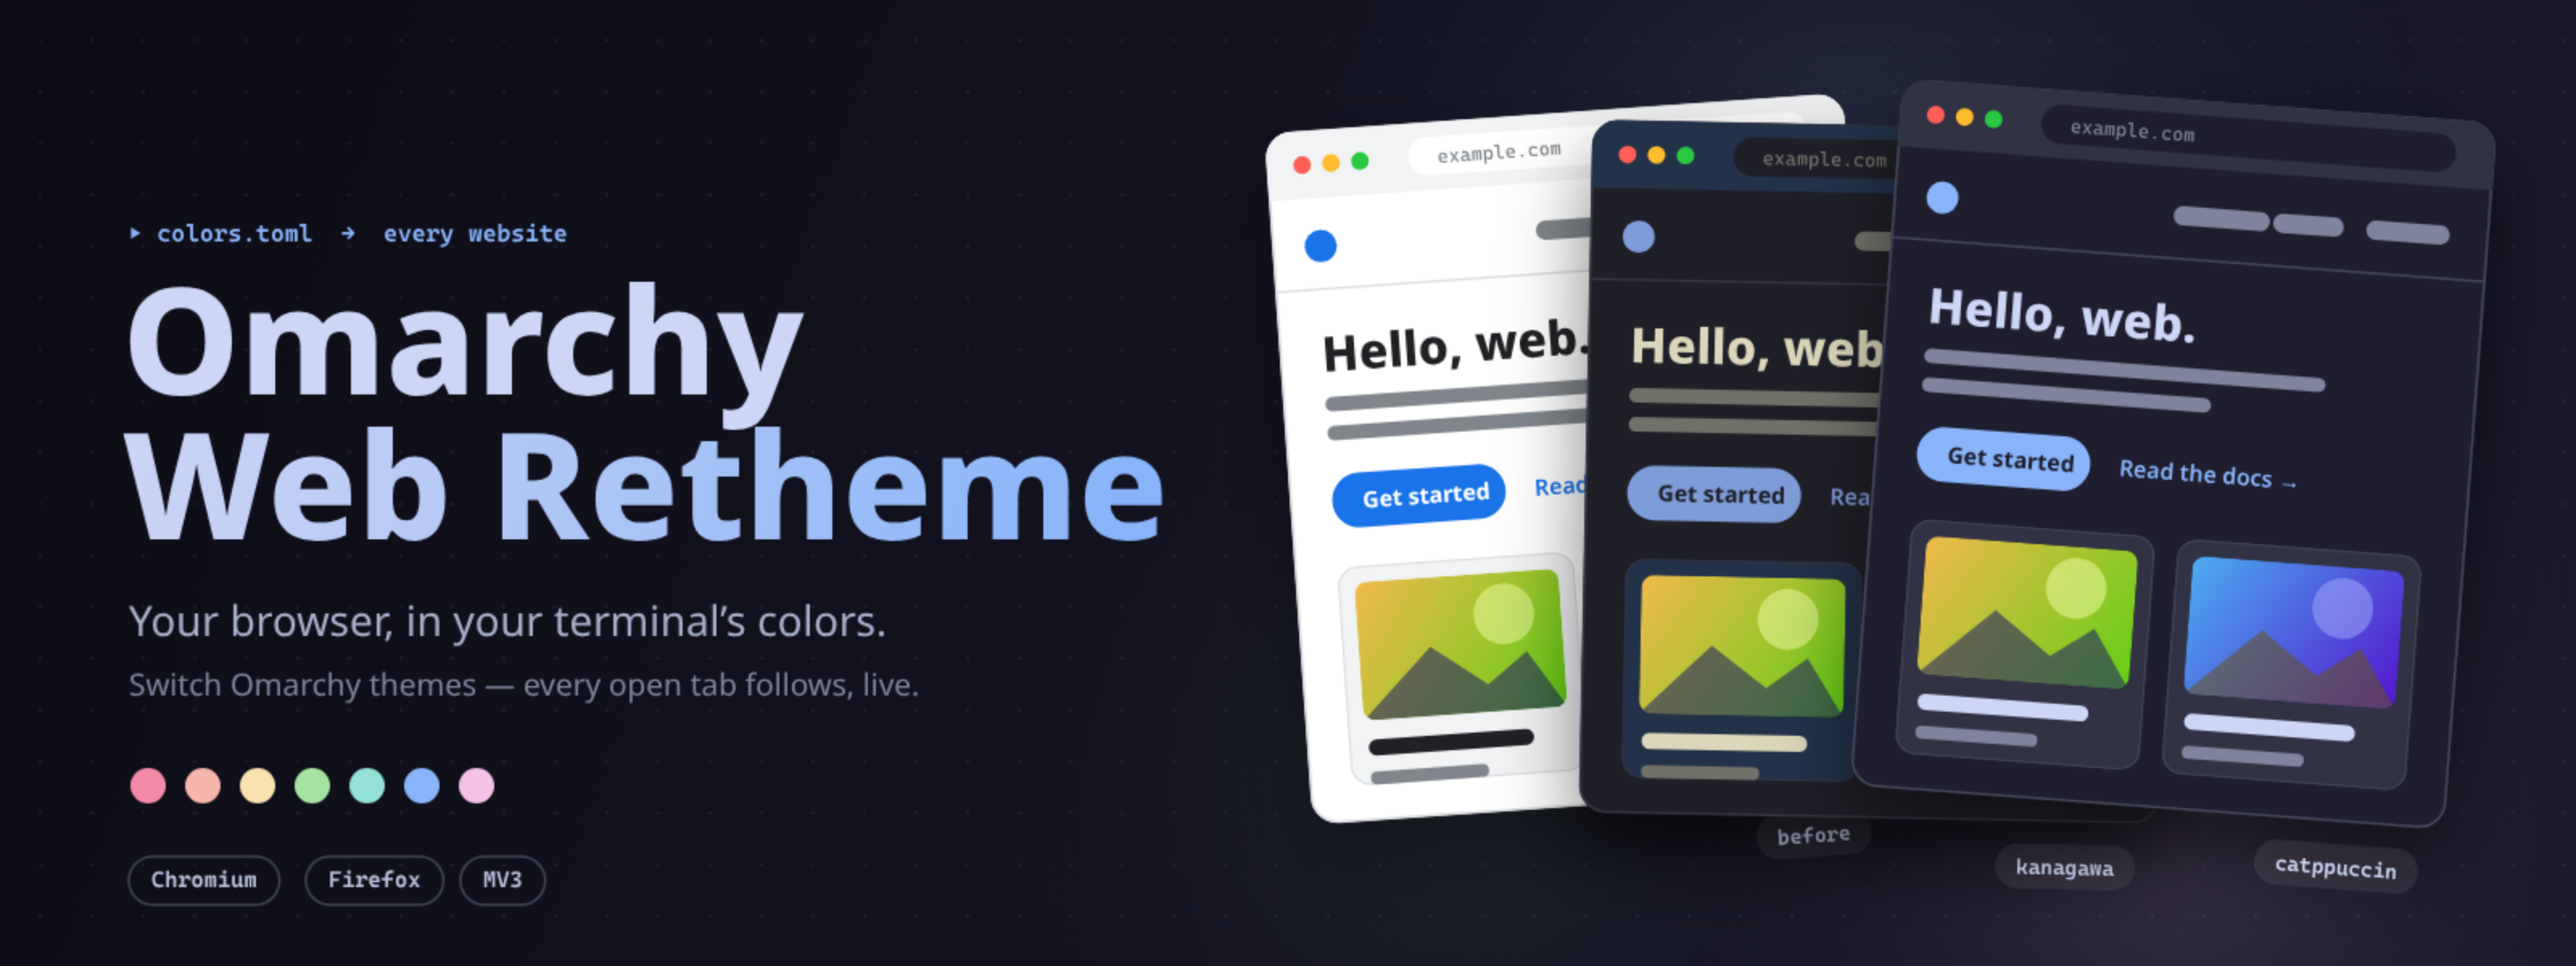
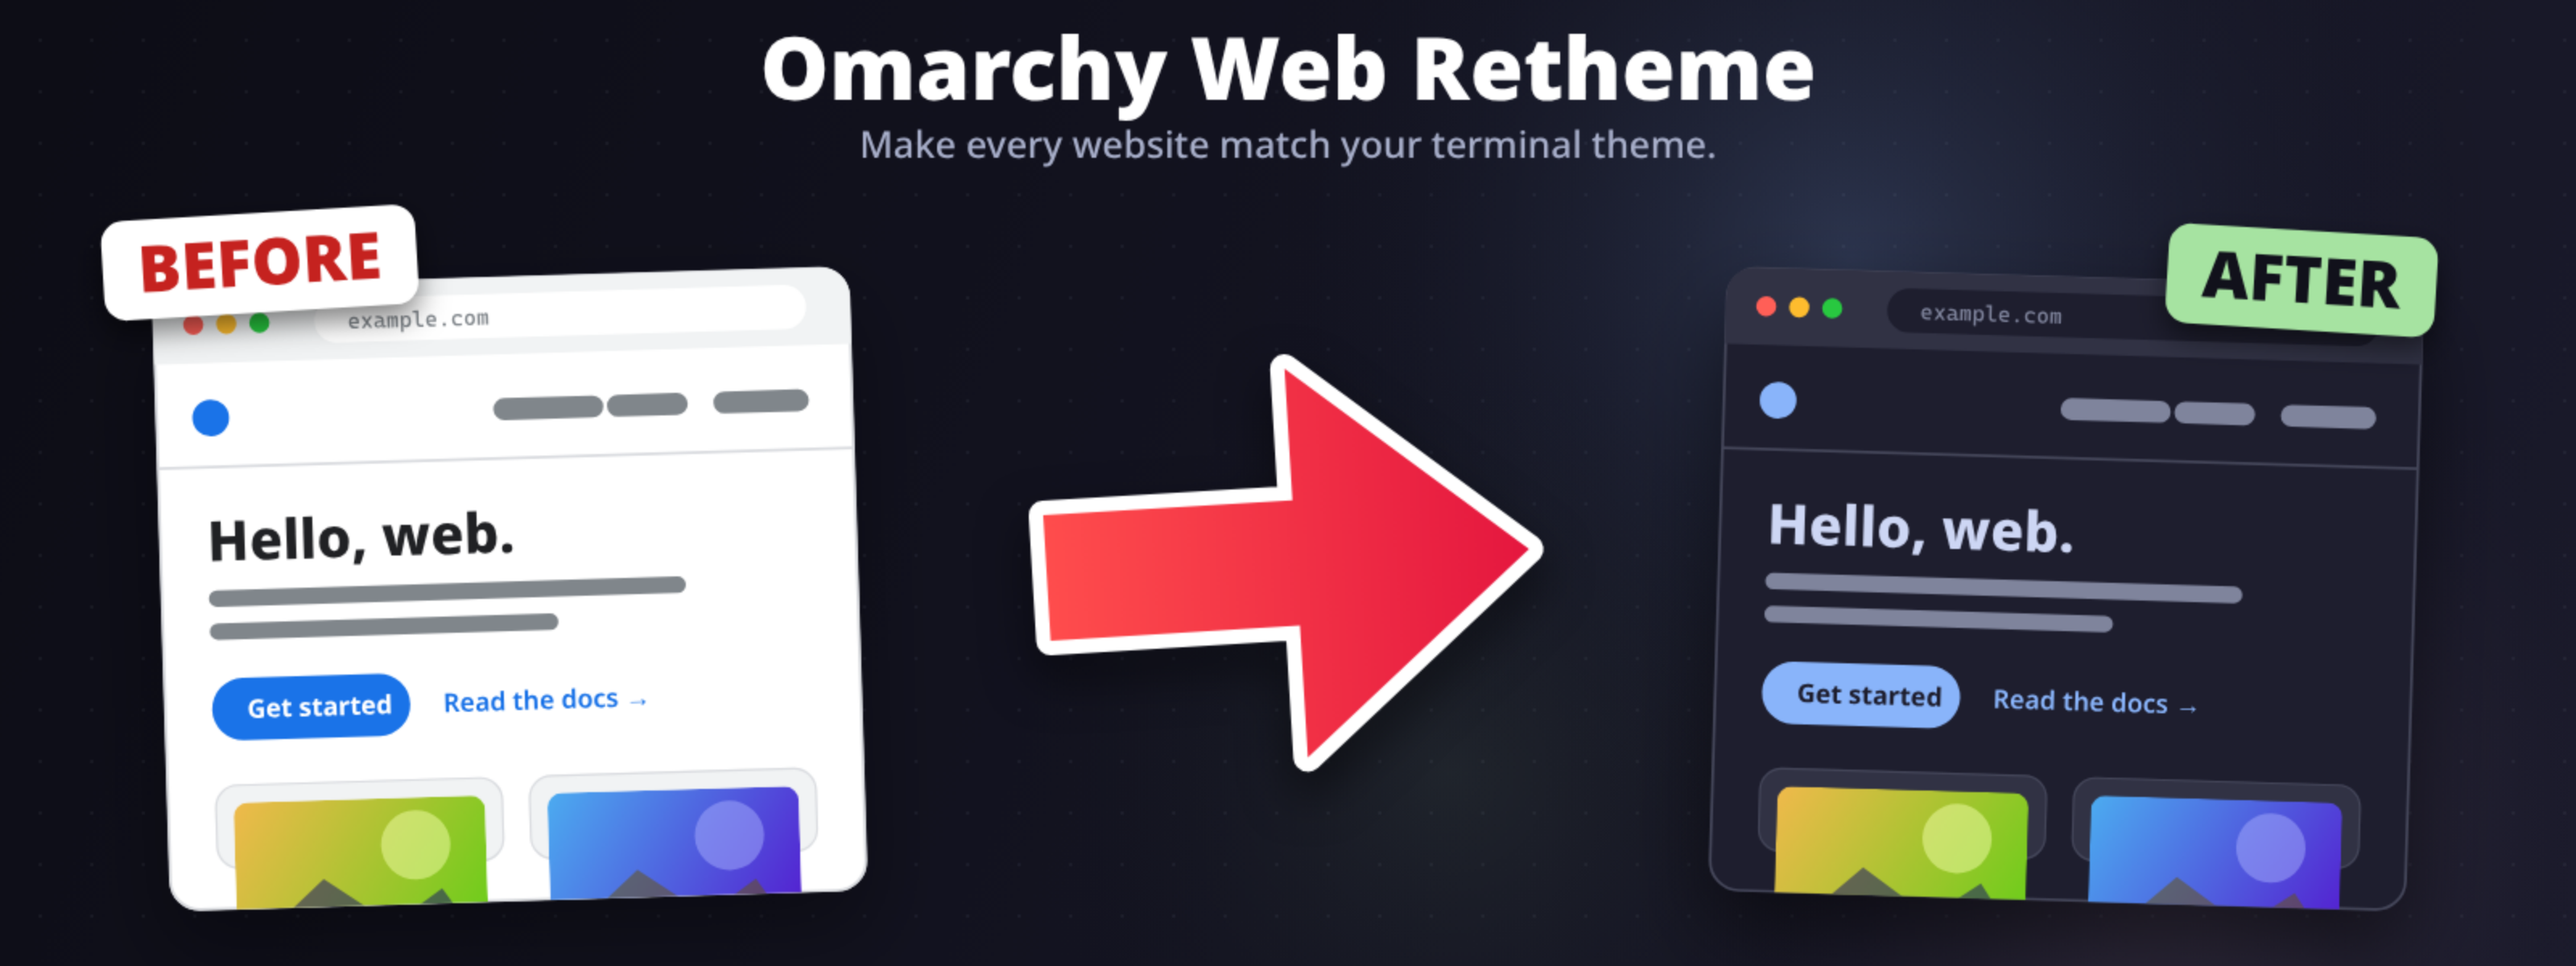
Simplify header to a big before/after with a red arrow

diff --git a/docs/header.html b/docs/header.html
@@ -52,35 +52,31 @@ function photo(x, y, w, h, hue) {
   g.restore();
 }
 
-function site({ x, y, w, h, rot, p, label, shadow = 0.5 }) {
+function site({ x, y, w, h, rot, p, scale = 1, shadow = 0.5 }) {
   g.save();
-  g.translate(x + w / 2, y + h / 2); g.rotate(rot); g.translate(-w / 2, -h / 2);
+  g.translate(x + (w * scale) / 2, y + (h * scale) / 2); g.rotate(rot); g.scale(scale, scale); g.translate(-w / 2, -h / 2);
   g.shadowColor = `rgba(0,0,0,${shadow})`; g.shadowBlur = 50; g.shadowOffsetY = 24;
   rr(0, 0, w, h, 16); fill(p.bg);
   g.shadowColor = "transparent";
   rr(0.5, 0.5, w - 1, h - 1, 16); g.strokeStyle = p.line; g.lineWidth = 1.5; g.stroke();
   g.save(); rr(0, 0, w, h, 16); g.clip();
 
-  // title bar
   g.fillStyle = p.alt; g.fillRect(0, 0, w, 42);
-  [["#ff5f57"], ["#febc2e"], ["#28c840"]].forEach(([col], i) => { g.beginPath(); g.arc(22 + i * 18, 21, 5.5, 0, 7); fill(col); });
+  ["#ff5f57", "#febc2e", "#28c840"].forEach((col, i) => { g.beginPath(); g.arc(22 + i * 18, 21, 5.5, 0, 7); fill(col); });
   rr(88, 9, w - 112, 24, 12); fill(p.bg);
   g.fillStyle = p.dim; g.font = `12px ${MONO}`; g.textBaseline = "middle"; g.fillText("example.com", 106, 22);
 
-  // nav
   g.beginPath(); g.arc(30, 72, 10, 0, 7); fill(p.accent);
-  [60, 44, 52].forEach((bw, i) => { rr(w - 36 - [160, 98, 40][i] - 0, 66, bw, 12, 6); fill(p.dim); });
+  [60, 44, 52].forEach((bw, i) => { rr(w - 36 - [160, 98, 40][i], 66, bw, 12, 6); fill(p.dim); });
   g.fillStyle = p.line; g.fillRect(0, 98, w, 1.5);
 
-  // hero
   g.fillStyle = p.fg; g.font = `800 30px ${SANS}`; g.textBaseline = "alphabetic";
   g.fillText("Hello, web.", 26, 150);
   [w - 120, w - 190].forEach((bw, i) => { rr(26, 166 + i * 18, bw, 9, 4.5); fill(p.dim); });
   rr(26, 214, 108, 34, 17); fill(p.accent);
   g.fillStyle = p.bg; g.font = `700 14px ${SANS}`; g.fillText("Get started", 45, 236);
-  g.fillStyle = p.accent; g.font = `600 14px ${SANS}`; g.fillText("Read the docs →", 152, 236);
+  g.fillStyle = p.accent; g.font = `600 14px ${SANS}`; g.fillText("Read the docs \u2192", 152, 236);
 
-  // cards
   const cw = (w - 26 * 2 - 14) / 2;
   [[0, 40], [1, 205]].forEach(([i, hue]) => {
     const cx = 26 + i * (cw + 14), cy = 272;
@@ -91,46 +87,54 @@ function site({ x, y, w, h, rot, p, label, shadow = 0.5 }) {
     rr(cx + 12, cy + 128, cw * 0.5, 8, 4); fill(p.dim);
   });
   g.restore();
+  g.restore();
+}
 
-  // tag
-  g.font = `600 13px ${MONO}`;
-  const tw = g.measureText(label).width + 26;
-  rr(w - tw - 14, h + 14, tw, 28, 14); fill("rgba(255,255,255,0.08)");
-  g.fillStyle = "#cdd6f4"; g.textBaseline = "middle"; g.fillText(label, w - tw - 1, h + 29);
+// Big sticker label, deliberately loud.
+function sticker(text, x, y, rot, bg, fg) {
+  g.save(); g.translate(x, y); g.rotate(rot);
+  g.font = `900 40px ${SANS}`;
+  const w = g.measureText(text).width + 44;
+  g.shadowColor = "rgba(0,0,0,0.5)"; g.shadowBlur = 18; g.shadowOffsetY = 8;
+  rr(0, -34, w, 62, 14); fill(bg);
+  g.shadowColor = "transparent";
+  g.fillStyle = fg; g.textBaseline = "alphabetic"; g.fillText(text, 22, 11);
+  g.restore();
+}
+
+// Chunky red arrow with a white keyline so it pops on any background.
+function arrow(cx, cy, len, thick, rot) {
+  g.save(); g.translate(cx, cy); g.rotate(rot);
+  const h = len / 2, t = thick / 2, head = thick * 1.55, neck = len * 0.08;
+  g.beginPath();
+  g.moveTo(-h, -t); g.lineTo(h - head - neck, -t); g.lineTo(h - head - neck, -head);
+  g.lineTo(h, 0); g.lineTo(h - head - neck, head); g.lineTo(h - head - neck, t); g.lineTo(-h, t); g.closePath();
+  g.shadowColor = "rgba(0,0,0,0.55)"; g.shadowBlur = 30; g.shadowOffsetY = 14;
+  g.lineJoin = "round"; g.lineWidth = 18; g.strokeStyle = "#fff"; g.stroke();
+  g.shadowColor = "transparent";
+  const gr = g.createLinearGradient(-h, 0, h, 0);
+  gr.addColorStop(0, "#ff4d4d"); gr.addColorStop(1, "#e5173f");
+  g.fillStyle = gr; g.fill();
   g.restore();
 }
 
 function title() {
-  g.textBaseline = "alphabetic";
-  // eyebrow
-  g.font = `600 15px ${MONO}`; g.fillStyle = "#89b4fa";
-  g.fillText("▸ colors.toml  →  every website", 80, 150);
-  // title
-  g.font = `800 92px ${SANS}`;
-  const t = g.createLinearGradient(80, 200, 700, 330);
-  t.addColorStop(0, "#cdd6f4"); t.addColorStop(1, "#89b4fa");
-  g.fillStyle = "#cdd6f4"; g.fillText("Omarchy", 76, 245);
-  g.fillStyle = t; g.fillText("Web Retheme", 76, 335);
-  // tagline
-  g.font = `400 26px ${SANS}`; g.fillStyle = "#a6adc8";
-  g.fillText("Your browser, in your terminal’s colors.", 80, 395);
-  g.font = `400 19px ${SANS}`; g.fillStyle = "#7f849c";
-  g.fillText("Switch Omarchy themes — every open tab follows, live.", 80, 432);
-  // palette dots
-  THEMES.catppuccin.dots.forEach((col, i) => { g.beginPath(); g.arc(92 + i * 34, 488, 11, 0, 7); fill(col); });
-  // badges
-  [["Chromium", 80], ["Firefox", 190], ["MV3", 286]].forEach(([s, x]) => {
-    g.font = `600 14px ${MONO}`; const w = g.measureText(s).width + 28;
-    rr(x, 532, w, 30, 15); g.strokeStyle = "rgba(205,214,244,0.25)"; g.lineWidth = 1.5; g.stroke();
-    g.fillStyle = "#bac2de"; g.textBaseline = "middle"; g.fillText(s, x + 14, 547); g.textBaseline = "alphabetic";
-  });
+  g.textAlign = "center"; g.textBaseline = "alphabetic";
+  g.font = `900 54px ${SANS}`; g.fillStyle = "#ffffff";
+  g.fillText("Omarchy Web Retheme", W / 2, 62);
+  g.font = `500 23px ${SANS}`; g.fillStyle = "#a6adc8";
+  g.fillText("Make every website match your terminal theme.", W / 2, 98);
+  g.textAlign = "left";
 }
 
 function draw() {
   background();
-  site({ x: 800, y: 70, w: 360, h: 430, rot: -0.07, p: THEMES.light, label: "before", shadow: 0.35 });
-  site({ x: 985, y: 78, w: 360, h: 430, rot: 0.02, p: THEMES.kanagawa, label: "kanagawa" });
-  site({ x: 1165, y: 62, w: 370, h: 440, rot: 0.075, p: THEMES.catppuccin, label: "catppuccin" });
+  const S = 1.14, ww = 380, wh = 340;
+  site({ x: 100, y: 172, w: ww, h: wh, scale: S, rot: -0.03, p: THEMES.light, shadow: 0.35 });
+  site({ x: 1600 - 100 - ww * S, y: 172, w: ww, h: wh, scale: S, rot: 0.03, p: THEMES.catppuccin });
+  arrow(800, 350, 300, 78, -0.06);
+  sticker("BEFORE", 64, 172, -0.06, "#ffffff", "#c5221f");
+  sticker("AFTER", 1600 - 64 - 190, 172, 0.06, "#a6e3a1", "#11111b");
   title();
 }
 document.fonts.ready.then(draw);
